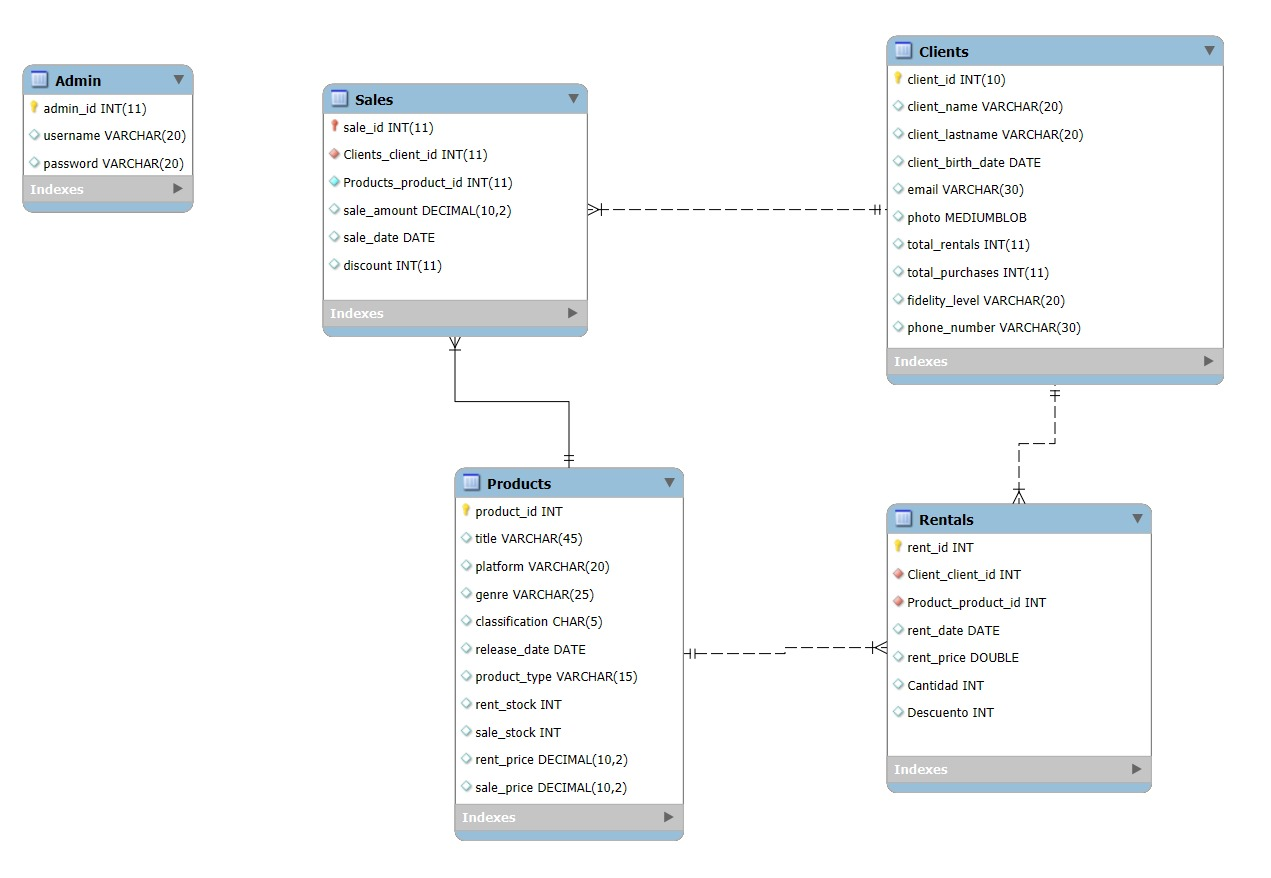
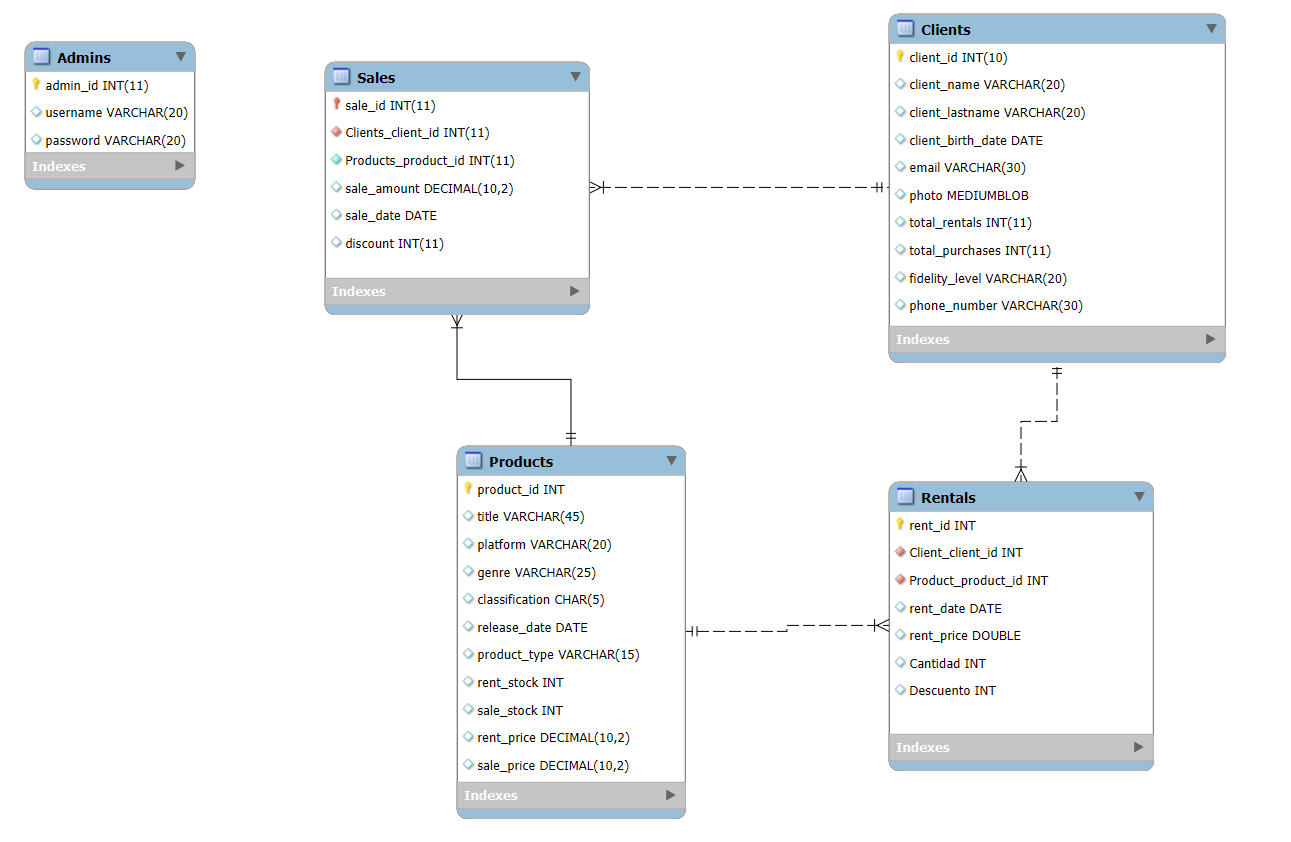
#6-Edición de nombres de clases, creación de clases DAO, y actualización de ER-diagram

diff --git a/MediaVault_Manager/src/controllers/AdminsController.java b/MediaVault_Manager/src/controllers/AdminsController.java
@@ -1,0 +1,5 @@
+package controllers;
+
+public class AdminsController {
+
+}

diff --git a/MediaVault_Manager/src/controllers/LoginController.java b/MediaVault_Manager/src/controllers/LoginController.java
@@ -1,0 +1,5 @@
+package controllers;
+
+public class LoginController {
+
+}

diff --git a/MediaVault_Manager/src/models/OperationDAO.java b/MediaVault_Manager/src/models/OperationDAO.java
@@ -1,0 +1,5 @@
+package models;
+
+public class OperationDAO {
+
+}

diff --git a/MediaVault_Manager/src/models/AdminsModel.java b/MediaVault_Manager/src/models/AdminsModel.java
@@ -1,0 +1,5 @@
+package models;
+
+public class AdminsModel {
+
+}

diff --git a/MediaVault_Manager/src/models/LoginModel.java b/MediaVault_Manager/src/models/LoginModel.java
@@ -1,0 +1,5 @@
+package models;
+
+public class LoginModel {
+
+}

diff --git a/MediaVault_Manager/src/models/ProductDAO.java b/MediaVault_Manager/src/models/ProductDAO.java
@@ -1,0 +1,5 @@
+package models;
+
+public class ProductDAO {
+
+}

diff --git a/MediaVault_Manager/src/models/ClientDAO.java b/MediaVault_Manager/src/models/ClientDAO.java
@@ -1,0 +1,5 @@
+package models;
+
+public class ClientDAO {
+
+}

diff --git a/MediaVault_Manager/src/models/RentalDAO.java b/MediaVault_Manager/src/models/RentalDAO.java
@@ -1,0 +1,5 @@
+package models;
+
+public class RentalDAO {
+
+}

diff --git a/MediaVault_Manager/src/views/AdminsView.java b/MediaVault_Manager/src/views/AdminsView.java
@@ -1,0 +1,5 @@
+package views;
+
+public class AdminsView {
+
+}

diff --git a/MediaVault_Manager/src/models/AdminDAO.java b/MediaVault_Manager/src/models/AdminDAO.java
@@ -1,0 +1,5 @@
+package models;
+
+public class AdminDAO {
+
+}

diff --git a/MediaVault_Manager/src/views/LoginView.java b/MediaVault_Manager/src/views/LoginView.java
@@ -1,0 +1,5 @@
+package views;
+
+public class LoginView {
+
+}

diff --git a/MediaVault_Manager/src/models/SaleDAO.java b/MediaVault_Manager/src/models/SaleDAO.java
@@ -1,0 +1,5 @@
+package models;
+
+public class SaleDAO {
+
+}
